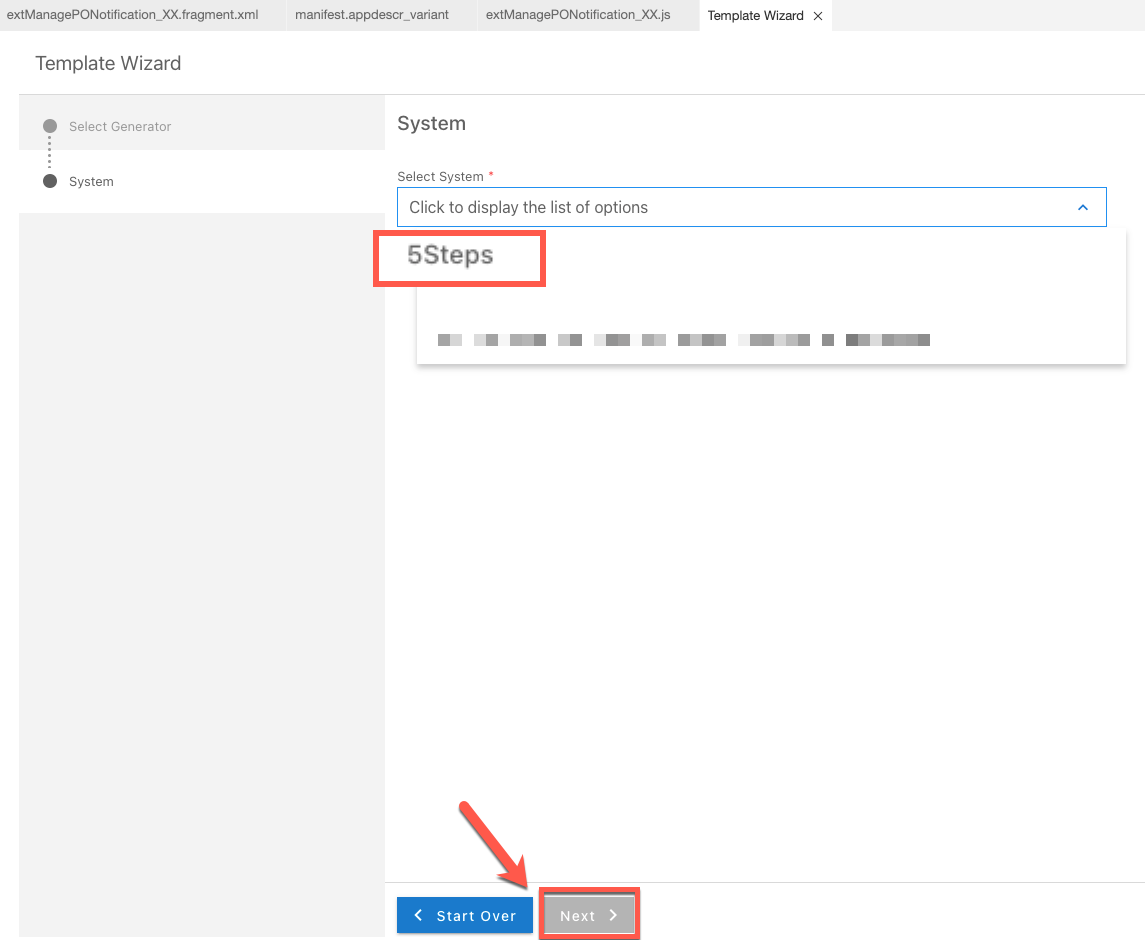
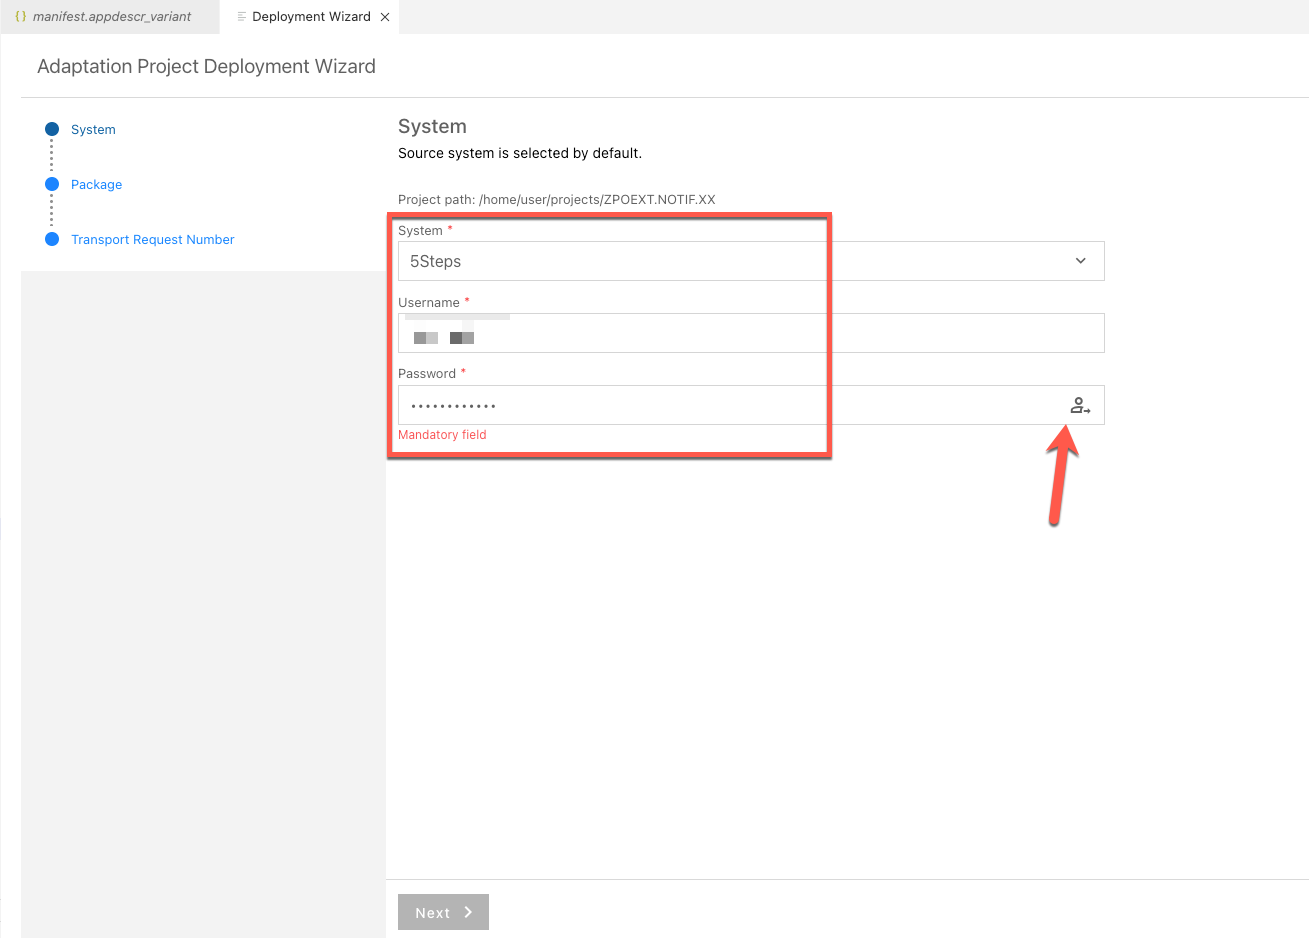
Update 2022

diff --git a/exercises/ex_6/README.md b/exercises/ex_6/README.md
@@ -4,15 +4,15 @@
 In this section you will deploy your custom app to your SAP S/4HANA system and consume the app in your own SAP Fiori Launchpad.
 
 ## Deploy your Adaptation Project to your SAP S/4HANA backend system
-Open Template Wizard, select generator: Deploy Adaptation Project and click Start.
+Right-click on the **manifest.appdescr_variant** file and from the menu navigate to **Adaptation Project >> Open Deployment Wizard**.
 
   ![Deploy Application](images/deploy1.png)
 
-Select your backend system destination
+Select your backend system destination and login with your user ID and password
 
   ![Deploy Application](images/deploy2.png)
 
-Enter your backend system credentials to authenticate and continue
+Once you have logged in, click on **Next**
 
   ![Deploy Application](images/deploy3.png)
 
